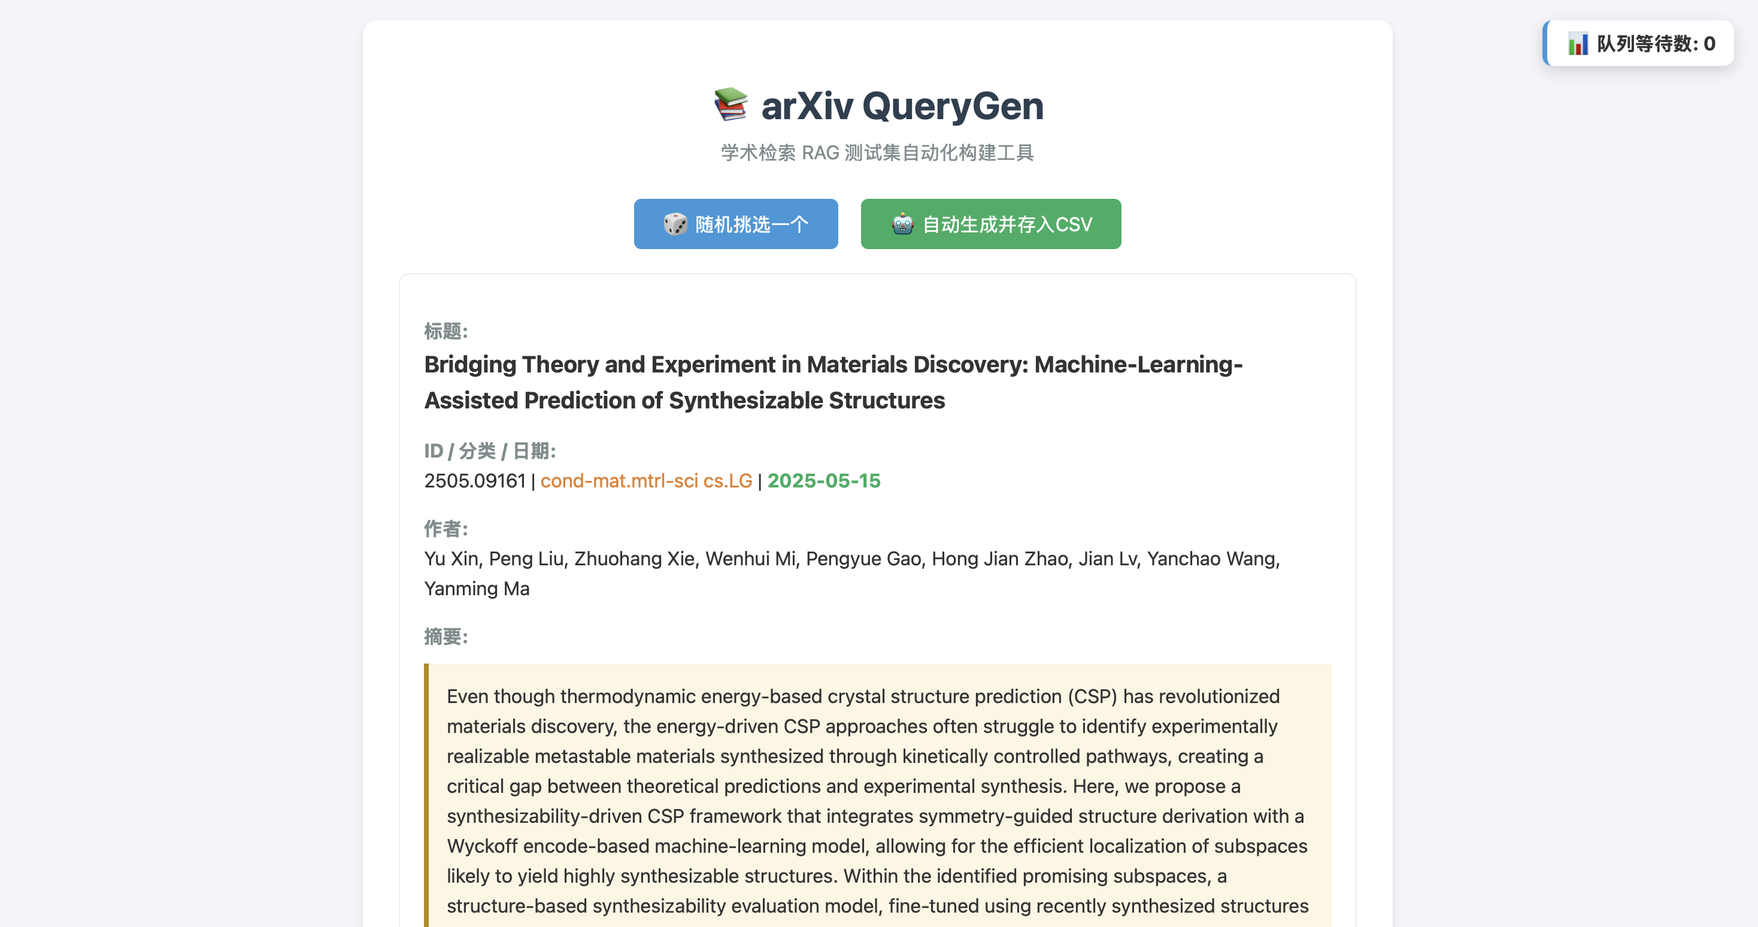
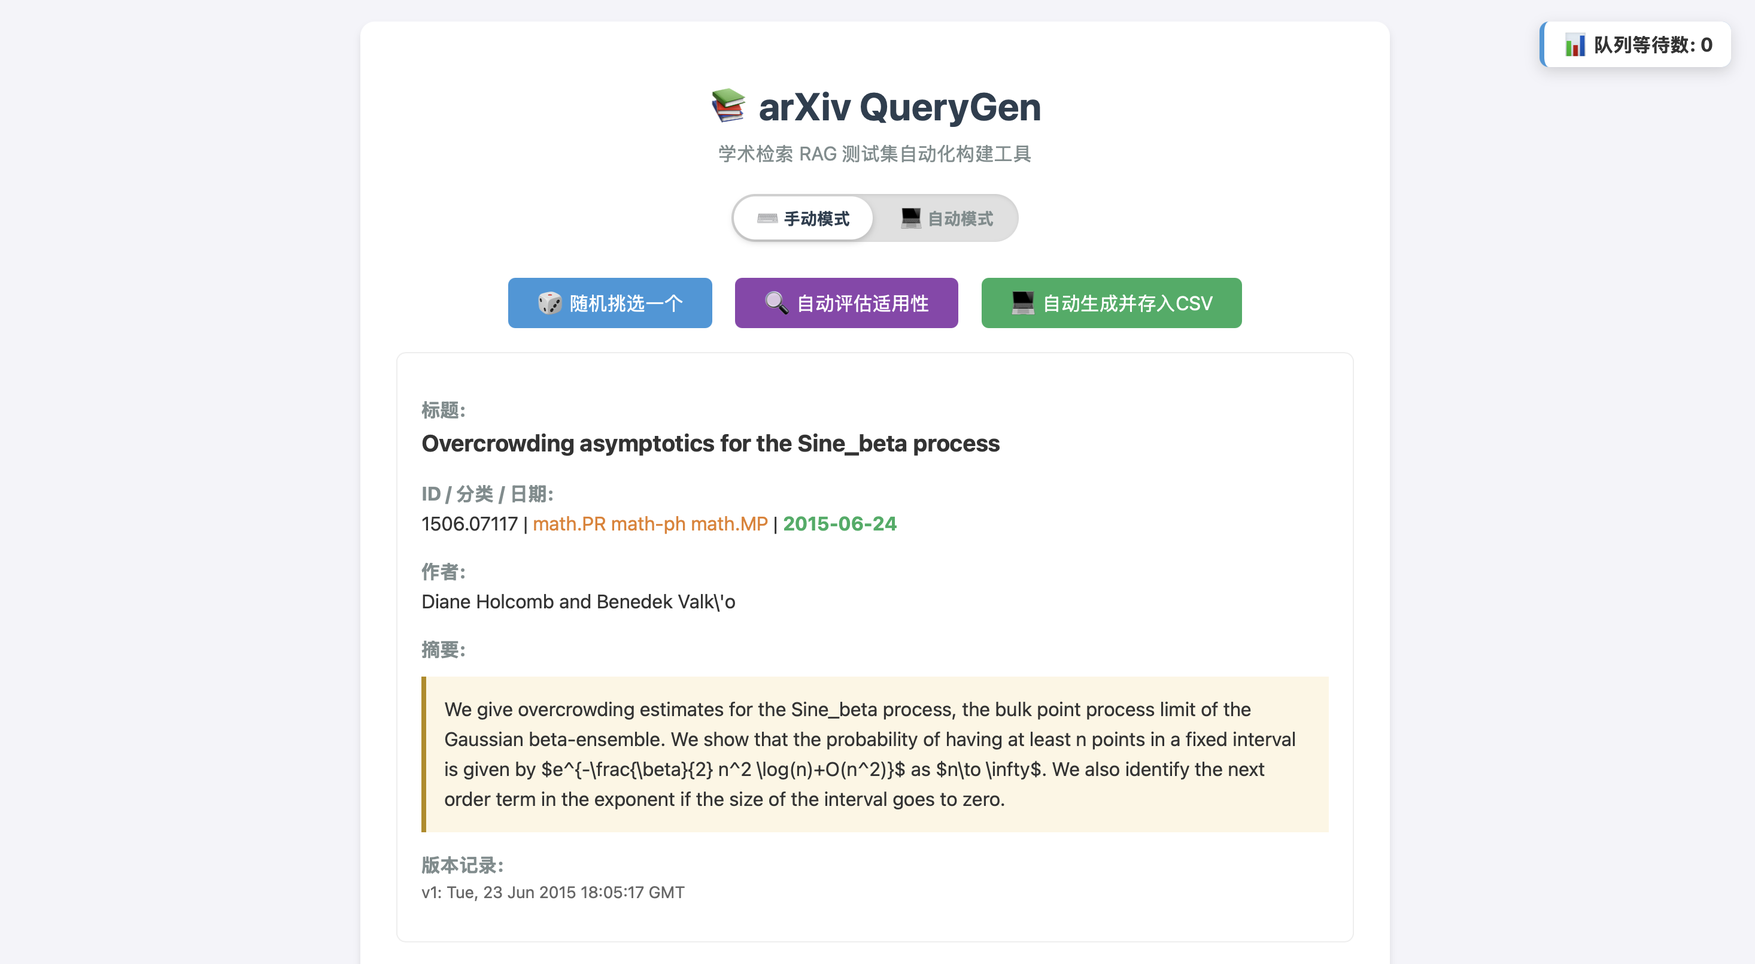
full_version

Changed region(s): [[0.2173, 0.3411, 0.7759, 1.0], [0.2793, 0.093, 0.7138, 0.3411], [0.9001, 0.031, 0.9621, 0.062]]

diff --git a/arxiv_querygen.py b/arxiv_querygen.py
@@ -35,6 +35,7 @@ app.json = CustomJSONProvider(app)
 
 # 全局变量存储数据，避免重复读取
 DF = None
+data_load_lock = threading.Lock()
 
 # 后台任务队列与完成结果暂存
 generation_queue = queue.Queue()
@@ -76,9 +77,11 @@ def load_data():
     global DF
     file_path = "arxiv-metadata-oai-snapshot.parquet"
     if DF is None:
-        print("正在从 Parquet 文件加载数据...")
-        DF = pd.read_parquet(file_path)
-        print(f"成功加载 {len(DF)} 条数据")
+        with data_load_lock:
+            if DF is None:
+                print("正在从 Parquet 文件加载数据...")
+                DF = pd.read_parquet(file_path)
+                print(f"成功加载 {len(DF)} 条数据")
     return DF
 
 # HTML 模板 - 传统三件套结合 (HTML + CSS + JS)
@@ -118,6 +121,17 @@ HTML_TEMPLATE = """
         #queue-header { font-weight: bold; }
         #queue-list { display: none; list-style: none; padding: 0; margin: 10px 0 0 0; font-size: 12px; max-height: 300px; overflow-y: auto; border-top: 1px dashed #ccc; padding-top: 10px;}
         #queue-list li { margin-bottom: 5px; white-space: nowrap; overflow: hidden; text-overflow: ellipsis; color: #555;}
+        
+        /* 滑动开关样式 */
+        .mode-toggle { display: flex; justify-content: center; margin-bottom: 25px; }
+        .toggle-bg { position: relative; width: 240px; height: 40px; background: #e0e0e0; border-radius: 20px; display: flex; cursor: pointer; box-shadow: inset 0 1px 3px rgba(0,0,0,0.1); }
+        .toggle-slider { position: absolute; top: 2px; left: 2px; width: 116px; height: 36px; background: #fff; border-radius: 18px; box-shadow: 0 2px 5px rgba(0,0,0,0.2); transition: transform 0.3s cubic-bezier(0.25, 0.8, 0.25, 1); }
+        .toggle-option { flex: 1; z-index: 1; display: flex; justify-content: center; align-items: center; font-weight: bold; color: #7f8c8d; transition: color 0.3s; user-select: none; font-size: 14px; }
+        .toggle-bg.auto .toggle-slider { transform: translateX(120px); }
+        .toggle-bg.auto .opt-manual { color: #7f8c8d; }
+        .toggle-bg.auto .opt-auto { color: #2c3e50; }
+        .toggle-bg:not(.auto) .opt-manual { color: #2c3e50; }
+        .toggle-bg:not(.auto) .opt-auto { color: #7f8c8d; }
     </style>
 </head>
 <body>
@@ -136,11 +150,68 @@ HTML_TEMPLATE = """
         <h1>📚 arXiv QueryGen</h1>
         <p style="text-align: center; color: #7f8c8d; margin-top: -10px; margin-bottom: 25px;">学术检索 RAG 测试集自动化构建工具</p>
         
-        <div class="btn-container">
-            <div id="loading">正在加载数据...</div>
+        <!-- 模式切换开关 -->
+        <div class="mode-toggle">
+            <div class="toggle-bg" id="modeToggleBg" onclick="toggleMode()">
+                <div class="toggle-slider"></div>
+                <div class="toggle-option opt-manual">⌨ 手动模式</div>
+                <div class="toggle-option opt-auto">💻 自动模式</div>
+            </div>
+        </div>
+
+        <!-- 自动模式区域 -->
+        <div id="auto-mode-section" style="display: none;">
+            <div class="card" style="background: #fffdf5; border-color: #f1c40f;">
+                <h2 style="color: #f39c12; margin-top:0; margin-bottom: 20px;">💻 全自动探索与生成流水线</h2>
+                
+                <!-- 控制面板 -->
+                <div style="display: flex; gap: 20px; flex-wrap: wrap; margin-bottom: 20px; align-items: center;">
+                    <div>
+                        <span class="label" style="display: inline; margin-right: 5px; margin-top:0;">生成目标数量:</span>
+                        <input type="number" id="autoTargetCount" value="50" style="padding: 5px; width: 80px; text-align: center; border: 1px solid #ccc; border-radius: 4px;">
+                    </div>
+                    <div>
+                        <span class="label" style="display: inline; margin-right: 5px; margin-top:0;">最大尝试倍率:</span>
+                        <input type="number" id="autoMaxMultiplier" value="2" step="0.5" style="padding: 5px; width: 60px; text-align: center; border: 1px solid #ccc; border-radius: 4px;" title="尝试次数超过 [目标数量 × 该倍率] 时报错停止，例: 目标50, 倍率2, 则最多尝试100次">
+                    </div>
+                    <div>
+                        <span class="label" style="display: inline; margin-right: 5px; margin-top:0;">API错误最大重试:</span>
+                        <input type="number" id="autoMaxRetries" value="3" style="padding: 5px; width: 60px; text-align: center; border: 1px solid #ccc; border-radius: 4px;" title="遇到请求失败、超时等错误时的最大重试次数">
+                    </div>
+                    <div style="flex-grow: 1;">
+                        <span style="font-size: 12px; color: #7f8c8d; font-style: italic;">(流水线并行模式开发中，当前为串行安全模式)</span>
+                    </div>
+                    <button id="autoStartBtn" onclick="startAutoMode()" style="background-color: #27ae60; padding: 10px 25px; font-weight: bold;">▶ 开始生成</button>
+                    <button id="autoStopBtn" onclick="stopAutoMode()" style="background-color: #e74c3c; padding: 10px 25px; font-weight: bold; display: none;">⏹ 停止并结算</button>
+                </div>
+
+                <!-- 状态与进度 -->
+                <div style="margin-bottom: 20px; padding: 15px; background: #fff; border: 1px solid #eee; border-radius: 8px;">
+                    <div style="display: flex; justify-content: space-between; margin-bottom: 8px; font-size: 14px; color: #34495e;">
+                        <span><strong>成功生成:</strong> <span id="autoProgressText">0</span> / <span id="autoTargetText">50</span></span>
+                        <span><strong>总尝试抽样:</strong> <span id="autoAttemptsText">0</span></span>
+                        <span><strong>丢弃/不适用:</strong> <span id="autoDiscardText">0</span> (<span id="autoFilterRate">0%</span>)</span>
+                    </div>
+                    <div style="width: 100%; height: 16px; background-color: #ecf0f1; border-radius: 8px; overflow: hidden; border: 1px solid #bdc3c7;">
+                        <div id="autoProgressBar" style="width: 0%; height: 100%; background: linear-gradient(90deg, #2ecc71, #27ae60); transition: width 0.3s ease-in-out;"></div>
+                    </div>
+                </div>
+
+                <!-- 实时终端日志 -->
+                <div class="label" style="margin-top:0px;">实时运行终端:</div>
+                <div id="autoConsole" style="background: #1e1e1e; color: #2ecc71; font-family: 'Courier New', Courier, monospace; font-size: 13px; padding: 12px; border-radius: 6px; height: 180px; overflow-y: auto; box-shadow: inset 0 0 10px rgba(0,0,0,0.8); line-height: 1.6;">
+                    > 系统已就绪，等待启动参数...<br>
+                </div>
+            </div>
+        </div>
+
+        <!-- 手动模式区域 (之前的全部内容) -->
+        <div id="manual-mode-section">
+            <div class="btn-container">
+                <div id="loading">正在加载数据...</div>
             <button onclick="fetchRandomRecord()">🎲 随机挑选一个</button>
             <button id="evalBtn" onclick="evaluatePaper()" style="background-color: #8e44ad; margin-left: 15px;">🔍 自动评估适用性</button>
-            <button id="autoGenTopBtn" onclick="autoGenerateAndSave()" style="background-color: #27ae60; margin-left: 15px;">🤖 自动生成并存入CSV</button>
+            <button id="autoGenTopBtn" onclick="autoGenerateAndSave()" style="background-color: #27ae60; margin-left: 15px;">💻 自动生成并存入CSV</button>
         </div>
 
         <div id="result" class="card" style="display:none;">
@@ -179,11 +250,39 @@ HTML_TEMPLATE = """
             </div>
             <textarea id="plain_text_area" readonly style="width: 100%; height: 200px; padding: 10px; border: 1px dashed #ccc; border-radius: 4px; font-family: monospace; font-size: 14px; background-color: #fafafa;"></textarea>
         </div>
+        </div> <!-- end #manual-mode-section -->
     </div>
     
     <div id="toast"></div>
 
     <script>
+        let isAutoRunning = false; // 标记自动模式是否正在执行
+
+        // 模式切换
+        function toggleMode() {
+            const bg = document.getElementById('modeToggleBg');
+            const manualSec = document.getElementById('manual-mode-section');
+            const autoSec = document.getElementById('auto-mode-section');
+            
+            if (bg.classList.contains('auto')) {
+                // 如果在自动模式且正在运行，阻止切换并弹窗提示
+                if (isAutoRunning) {
+                    alert(`⚠ 警告：当前正有自动生成任务在进行中！\n请先点击【⏹ 停止并结算】终止任务，然后再切换回手动模式。`);
+                    return;
+                }
+                
+                // 回到手动模式
+                bg.classList.remove('auto');
+                manualSec.style.display = 'block';
+                autoSec.style.display = 'none';
+            } else {
+                // 切换到自动模式
+                bg.classList.add('auto');
+                manualSec.style.display = 'none';
+                autoSec.style.display = 'block';
+            }
+        }
+
         let toastTimeout = null;
         function showToast(message, isError = false) {
             const toast = document.getElementById('toast');
@@ -204,10 +303,16 @@ HTML_TEMPLATE = """
         }
 
         // 定时轮询后端查看是否有后台任务完成
+        let currentQueueSize = 0;
+        let isProcessing = false;
+        
         function pollResults() {
             fetch('/api/poll_results')
                 .then(res => res.json())
                 .then(resData => {
+                    currentQueueSize = resData.queue_size;
+                    isProcessing = !!resData.current_processing;
+                    
                     // 更新右上角悬浮窗的队列数量和列表
                     const queueElem = document.getElementById('queue-status');
                     const listElem = document.getElementById('queue-list');
@@ -299,6 +404,161 @@ HTML_TEMPLATE = """
             }
         }
 
+        let autoStopFlag = false;
+
+        function stopAutoMode() {
+            autoStopFlag = true;
+            const consoleEl = document.getElementById('autoConsole');
+            consoleEl.innerHTML += `<br>[${new Date().toLocaleTimeString('en-US', {hour12: false})}] <span style="color:#e74c3c;">🛑 正在停止自动任务，等待当前操作结束后终止...</span><br>`;
+            consoleEl.scrollTop = consoleEl.scrollHeight;
+        }
+
+        async function startAutoMode() {
+            // 参数读取与保护
+            const targetCount = parseInt(document.getElementById('autoTargetCount').value) || 50;
+            const maxMultiplier = parseFloat(document.getElementById('autoMaxMultiplier').value) || 2;
+            const maxRetries = parseInt(document.getElementById('autoMaxRetries').value) || 3;
+            const maxAttempts = Math.ceil(targetCount * maxMultiplier);
+            
+            if (targetCount <= 0 || maxMultiplier < 1) {
+                alert('请填写合理的生成目标的数量与倍率阈值');
+                return;
+            }
+            
+            if (currentQueueSize > 0 || isProcessing) {
+                alert('请等待当前后台队列中的残留任务彻底结束，再启动全新自动流水线');
+                return;
+            }
+
+            isAutoRunning = true;
+            autoStopFlag = false;
+            
+            // 切换按钮状态
+            document.getElementById('autoStartBtn').style.display = 'none';
+            document.getElementById('autoStopBtn').style.display = 'inline-block';
+            
+            // 初始化计量器
+            let generatedCount = 0;
+            let totalAttempts = 0;
+            let discardCount = 0;
+            
+            document.getElementById('autoTargetText').textContent = targetCount;
+            document.getElementById('autoProgressText').textContent = generatedCount;
+            document.getElementById('autoAttemptsText').textContent = totalAttempts;
+            document.getElementById('autoDiscardText').textContent = discardCount;
+            document.getElementById('autoFilterRate').textContent = '0%';
+            document.getElementById('autoProgressBar').style.width = '0%';
+            
+            const consoleEl = document.getElementById('autoConsole');
+            consoleEl.innerHTML = `> 🚀 自动生成流水线启动！目标: ${targetCount} 组 (最长允许摸排 ${maxAttempts} 篇)<br>`;
+            
+            const log = (msg) => {
+                const time = new Date().toLocaleTimeString('en-US', {hour12: false});
+                consoleEl.innerHTML += `[${time}] ${msg}<br>`;
+                consoleEl.scrollTop = consoleEl.scrollHeight;
+            };
+
+            let retryCount = 0;
+            
+            // 核心循环
+            while (!autoStopFlag && generatedCount < targetCount && totalAttempts < maxAttempts) {
+                try {
+                    log(`🎲 正在抽取随机论文...`);
+                    const fetchRes = await fetch('/api/random');
+                    if (!fetchRes.ok) throw new Error(`抽样请求失败 (HTTP ${fetchRes.status})`);
+                    const paperData = await fetchRes.json();
+                    
+                    if (autoStopFlag) break;
+                    
+                    totalAttempts++;
+                    const shortTitle = paperData.title.length > 30 ? paperData.title.substring(0, 30) + '...' : paperData.title;
+                    log(`🤖 正在评估适用性: 《${shortTitle}》`);
+                    
+                    const evalRes = await fetch('/api/evaluate_paper', {
+                        method: 'POST',
+                        headers: { 'Content-Type': 'application/json' },
+                        body: JSON.stringify(paperData)
+                    });
+                    if (!evalRes.ok) throw new Error(`评估请求失败 (HTTP ${evalRes.status})`);
+                    const evalData = await evalRes.json();
+                    
+                    if (autoStopFlag) break;
+                    
+                    // 重置报错计数
+                    retryCount = 0;
+
+                    if (evalData.suitable) {
+                        log(`✅ 适用性评估通过！投递到大语言模型进行 Query 生成...`);
+                        const plainText = `${PROMPT_PREFIX}标题：${paperData.title}\n日期：${paperData.update_date}\n作者：${paperData.authors}\n摘要：${paperData.abstract}`;
+                        
+                        const genRes = await fetch('/api/generate_and_save', {
+                            method: 'POST',
+                            headers: { 'Content-Type': 'application/json' },
+                            body: JSON.stringify({ prompt: plainText, title: paperData.title })
+                        });
+                        if (!genRes.ok) throw new Error(`提交生成任务失败 (HTTP ${genRes.status})`);
+                        
+                        // 串行执行逻辑：每投递一篇，必须耐心等待其从后台队列完全消化掉才继续
+                        log(`⏳ 任务已入队，[串行安全模式] 正等待大模型生成并写入CSV...`);
+                        let hasStartedProcessing = false;
+                        while (!autoStopFlag) {
+                            await new Promise(r => setTimeout(r, 1500)); // 给心跳时间
+                            if (currentQueueSize > 0 || isProcessing) {
+                                hasStartedProcessing = true;
+                            } else if (hasStartedProcessing && currentQueueSize === 0 && !isProcessing) {
+                                // 已经开始过且目前队列和执行都清空，说明执行完毕
+                                break;
+                            } else if (currentQueueSize === 0 && !isProcessing) {
+                                // 可能刚好 pollInterval 没拉到最新状态或者后台瞬间执行完毕（概率极小）
+                                // 容错重试多等一秒判断
+                                await new Promise(r => setTimeout(r, 1000));
+                                if (currentQueueSize === 0 && !isProcessing) break;
+                            }
+                        }
+                        
+                        if (autoStopFlag) break;
+                        
+                        generatedCount++;
+                        log(`✨ <span style="color:#f39c12;">当前论文生成并落库完毕！当前进度: ${generatedCount} / ${targetCount}</span>`);
+                        
+                    } else {
+                        discardCount++;
+                        log(`❌ 论文不适用，已丢弃。(原因: <span style="color:#e74c3c;">${evalData.reason}</span>)`);
+                    }
+                    
+                    // 刷新状态盘数据
+                    document.getElementById('autoProgressText').textContent = generatedCount;
+                    document.getElementById('autoAttemptsText').textContent = totalAttempts;
+                    document.getElementById('autoDiscardText').textContent = discardCount;
+                    document.getElementById('autoFilterRate').textContent = Math.round((discardCount / totalAttempts) * 100) + '%';
+                    document.getElementById('autoProgressBar').style.width = Math.round((generatedCount / targetCount) * 100) + '%';
+                    
+                } catch (err) {
+                    retryCount++;
+                    log(`<span style="color:#e74c3c;">⚠ 发生意外错误: ${err.message} (第 ${retryCount}/${maxRetries} 次重试)</span>`);
+                    if (retryCount > maxRetries) {
+                        log(`<span style="color:#e74c3c;">🚨 连续网络崩溃或大对象拦截超限，流水线强行熔断！</span>`);
+                        break;
+                    }
+                    await new Promise(r => setTimeout(r, 2000));
+                }
+            } // end while
+            
+            // 结算语
+            if (generatedCount >= targetCount) {
+                log(`🎉 <strong style="color:white; background:#27ae60; padding:2px 5px;">达成目标容量！成功生产并通过筛选 ${targetCount} 组问答指令。</strong>`);
+            } else if (totalAttempts >= maxAttempts) {
+                log(`🛑 达到尝试倍率极值上限 (${maxAttempts}抽样)，可能当前科研方向可选取样本过少，已自动停机。`);
+            } else {
+                log(`🛑 流水线已人工停止或熔断退出，最终生产 ${generatedCount} 条结果。`);
+            }
+            
+            // 状态还原
+            document.getElementById('autoStartBtn').style.display = 'inline-block';
+            document.getElementById('autoStopBtn').style.display = 'none';
+            isAutoRunning = false;
+        }
+
         async function autoGenerateAndSave() {
             const promptStr = document.getElementById('plain_text_area').value;
             const paperTitle = document.getElementById('title').textContent || '未知论文';
@@ -309,7 +569,7 @@ HTML_TEMPLATE = """
             }
             
             const btn = document.getElementById('autoGenTopBtn');
-            const originalText = '🤖 自动生成并存入CSV';
+            const originalText = '💻 自动生成并存入CSV';
             btn.textContent = '⏳ 请求已加入队列...';
             btn.disabled = true;
             btn.style.backgroundColor = '#95a5a6';
@@ -740,5 +1000,5 @@ if __name__ == '__main__':
     # 为了让前端页面迅速打开并显示 loading 动画，取消启动时的同步载入阻塞
     # 第一次 /api/random 调用时才会触发 Parquet 加载
     
-    # 默认运行在 5000 端口，关闭 debug 模式，禁用重载功能
-    app.run(debug=False, use_reloader=False, port=5000)
+    # 默认运行在 5050 端口，避开 macOS 默认占用的 5000 端口（Control Center / AirPlay），关闭 debug 模式，禁用重载功能
+    app.run(debug=False, use_reloader=False, port=5050)

diff --git a/README.md b/README.md
@@ -1,4 +1,4 @@
-# arXiv QueryGen
+# Paper QueryGen
 
 ![Web前端展示](webapp.png)
 
@@ -58,8 +58,34 @@
    ```bash
    python arxiv_querygen.py
    ```
-4. 浏览器打开 `http://127.0.0.1:5000`
+4. 浏览器打开 `http://127.0.0.1:5050`
 
-点击 **“🎲 随机挑选一个”** 刷新下一篇文章；点击 **“🤖 自动生成并存入CSV”** 即可触发 LLM 请求，它会在后台排队处理。
+> **⏳ 首次打开加载提示**  
+> 当你第一次在浏览器中打开页面时，系统需要将庞大的 `.parquet` 数据集文件整个读入内存。
+> 这个过程通常需要等待几秒到几十秒不等（取决于你的 Parquet 文件大小和硬盘读写速度），期间页面会显示加载动画，请耐心等待第一篇论文内容刷新出来。
+> 
+> ![首次加载内存等待示意图](initial_loading.png)
 
-页面下方有队列提示悬浮窗，如果成功、报错或者网络出现状况，都会有小气泡提醒。
+程序包含**手动模式**和**自动模式**两种操作方式，满足不同的使用场景：
+
+### 手动模式（精确筛选）
+适合需要人工审阅、精细控制生成质量的场景。
+- 点击 **“🎲 随机挑选一个”** 刷新下一篇文章。
+- 如果你不确定这篇论文是否适合用来生成 Query，可以点击 **“🔍 自动评估适用性”** 让大模型帮你快速判断。
+
+  ![AI 自动评估适用性效果展示](ai_eval.png)
+
+- 认为合适后，点击 **“🤖 自动生成并存入CSV”** 即可触发 LLM 请求，它会在后台排队处理。
+
+### 自动模式（批量处理）
+适合希望无人值守、快速批量积累 Benchmark 数据的场景。
+- 开启自动模式后，系统会自动在后台随机抽取论文。
+- 自动进行论文适用性评估，如果大模型判断适合，则自动发起 Query 生成并存入 CSV；如果不适合则自动跳过并处理下一篇。
+- **配置参数说明：**
+  - **生成目标数量**：你需要成功生成的 Query 组数（例如 50，系统会在成功生成 50 组后自动结束任务）。
+  - **最大尝试倍率**：防止因大量论文不合格而导致的死循环抽样。系统最大抽样尝试次数为 `目标数量 × 该倍率`（例：目标50，倍率2，则最多抽取 100 篇论文，若仍未达到设定目标也会报错停止）。
+  - **API错误最大重试**：遇到网络抖动或大模型 API 报错时，针对当前单次请求允许的最大重试次数。
+
+![自动模式运行日志或界面展示](auto_mode.png)
+
+无论是手动还是自动模式，页面下方都有队列提示悬浮窗，如果成功、报错或者网络出现状况，都会有小气泡提醒。
